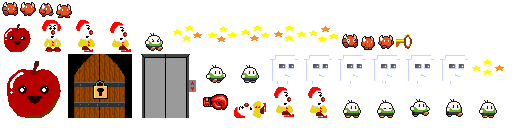
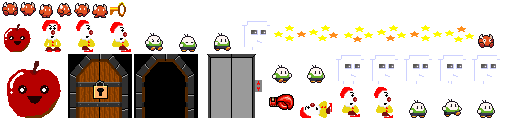
Door can be opened

diff --git a/core/src/com/sa/game/entities/Door.java b/core/src/com/sa/game/entities/Door.java
@@ -1,6 +1,7 @@
 package com.sa.game.entities;
 
 import com.badlogic.ashley.core.Entity;
+import com.badlogic.gdx.ai.fsm.DefaultStateMachine;
 import com.badlogic.gdx.graphics.g2d.Animation;
 import com.badlogic.gdx.graphics.g2d.TextureRegion;
 import com.badlogic.gdx.math.Rectangle;
@@ -8,14 +9,18 @@ import com.badlogic.gdx.math.Vector2;
 import com.sa.game.collision.CollisionDetection;
 import com.sa.game.collision.CollisionEntity;
 import com.sa.game.collision.CollisionFilter;
+import com.sa.game.components.AIComponent;
+import com.sa.game.components.AnimationComponent;
 import com.sa.game.components.CollisionComponent;
+import com.sa.game.components.ControlComponent;
 import com.sa.game.components.PositionComponent;
 import com.sa.game.components.RenderComponent;
 import com.sa.game.components.RenderDebugInfoComponent;
 import com.sa.game.gfx.Sprite;
+import com.sa.game.statemachines.*;
 
 public class Door {
-    public static Entity create(Vector2 position, float size, final Animation<TextureRegion> idleAnimation, CollisionDetection collisionDetection) {
+    public static Entity create(Vector2 position, float size, final Animation<TextureRegion> doorClosedAnimation, final Animation<TextureRegion> doorOpenAnimation, CollisionDetection collisionDetection) {
         Entity entity = new Entity();
         entity.flags = EntityType.Door.type;
 
@@ -29,21 +34,33 @@ public class Door {
         collisionEntity.filter.category = CollisionFilter.OBJECT;
         collisionDetection.add(collisionEntity);
 
+        ControlComponent controlComponent = new ControlComponent();
+
         PositionComponent positionComponent = new PositionComponent();
         positionComponent.position.set(position);
 
         CollisionComponent collisionComponent = new CollisionComponent();
         collisionComponent.entity = collisionEntity;
 
+        AnimationComponent<DoorState> animationComponent = new AnimationComponent<>();
+        animationComponent.animations.put(DoorState.CLOSED, doorClosedAnimation);
+        animationComponent.animations.put(DoorState.OPEN, doorOpenAnimation);
+
+        DefaultStateMachine<Entity, DoorState> stateMachine = new DefaultStateMachine<>(entity, DoorState.CLOSED);
+        AIComponent<DoorState> aiComponent = new AIComponent<>(entity, stateMachine);
+
         RenderComponent renderComponent = new RenderComponent();
         renderComponent.sprite = new Sprite();
         renderComponent.sprite.size.set(collisionEntity.box.width, collisionEntity.box.height);
-        renderComponent.sprite.textureRegion = idleAnimation.getKeyFrame(0);
+        renderComponent.sprite.textureRegion = doorClosedAnimation.getKeyFrame(0);
 
         RenderDebugInfoComponent renderDebugInfoComponent = new RenderDebugInfoComponent();
 
+        entity.add(controlComponent);
         entity.add(positionComponent);
         entity.add(collisionComponent);
+        entity.add(animationComponent);
+        entity.add(aiComponent);
         entity.add(renderComponent);
         entity.add(renderDebugInfoComponent);
 

diff --git a/core/src/com/sa/game/statemachines/DoorState.java b/core/src/com/sa/game/statemachines/DoorState.java
@@ -1,0 +1,48 @@
+package com.sa.game.statemachines;
+import com.badlogic.ashley.core.Entity;
+import com.badlogic.gdx.ai.fsm.State;
+import com.badlogic.gdx.ai.msg.Telegram;
+import com.sa.game.collision.CollisionEntity;
+import com.sa.game.components.CollisionComponent;
+import com.sa.game.components.ComponentMappers;
+
+public enum DoorState implements State<Entity> {
+    OPEN()  {
+        @Override
+        public void update(final Entity data) {
+        }
+    },
+    CLOSED() {
+        @Override
+        public void update(final Entity data) {
+            final CollisionComponent collisionComponent = ComponentMappers.collision.get(data);
+            for(final CollisionEntity collisionEntity : collisionComponent.entity.collidees) {
+                final Entity colEnt = (Entity)collisionEntity.userData;
+                if (ComponentMappers.player1.get(colEnt) != null && ComponentMappers.pickUp.get(colEnt) != null) {
+                    final Entity pickUpEnt = ComponentMappers.pickUp.get(colEnt).entity;
+                    if(pickUpEnt != null)
+                        ComponentMappers.ai.get(data).stateMachine.changeState(OPEN);
+                }
+            }
+        }
+    };
+
+    DoorState() {}
+
+    @Override
+    public void update(final Entity data) {
+    }
+
+    @Override
+    public void enter(final Entity data) {
+    }
+
+    @Override
+    public void exit(final Entity data) {
+    }
+
+    @Override
+    public boolean onMessage(final Entity data, final Telegram telegram) {
+        return false;
+    }
+}

diff --git a/core/src/com/sa/game/systems/AnimationSystem.java b/core/src/com/sa/game/systems/AnimationSystem.java
@@ -17,8 +17,8 @@ public class AnimationSystem<T> extends IteratingSystem {
         super(Family.all(
                          AIComponent.class,
                          AnimationComponent.class,
-                         RenderComponent.class,
-                         PhysicsComponent.class).get());
+                         RenderComponent.class//,
+                         /*PhysicsComponent.class*/).get());
     }
 
     @Override
@@ -29,11 +29,13 @@ public class AnimationSystem<T> extends IteratingSystem {
         final PhysicsComponent physics = ComponentMappers.physics.get(entity);
 
         render.sprite.textureRegion.setRegion(animation.animations.get(ai.stateMachine.getCurrentState()).getKeyFrame(animation.currentTime));
-        if(physics.velocity.x < 0.0f) {
-            render.sprite.mirrorX = true;
-        }
-        else if(physics.velocity.x > 0) {
-            render.sprite.mirrorX = false;
+
+        if (physics != null) {
+            if (physics.velocity.x < 0.0f) {
+                render.sprite.mirrorX = true;
+            } else if (physics.velocity.x > 0) {
+                render.sprite.mirrorX = false;
+            }
         }
         animation.currentTime += deltaTime;
     }

diff --git a/core/src/com/sa/game/entities/Key.java b/core/src/com/sa/game/entities/Key.java
@@ -16,6 +16,7 @@ import com.sa.game.components.PositionComponent;
 import com.sa.game.components.RenderComponent;
 import com.sa.game.components.RenderDebugInfoComponent;
 import com.sa.game.components.WorldConstantsComponent;
+import com.sa.game.components.groups.KeyGroupComponent;
 import com.sa.game.components.groups.ToolGroupComponent;
 import com.sa.game.gfx.Sprite;
 
@@ -25,6 +26,7 @@ public class Key {
         entity.flags = EntityType.Key.type;
 
         ToolGroupComponent toolGroupComponent = new ToolGroupComponent();
+        KeyGroupComponent keyGroupComponent = new KeyGroupComponent();
 
         WorldConstantsComponent worldConstantsComponent = new WorldConstantsComponent();
         worldConstantsComponent.height = staticEnvironment.getWorldBoundY();
@@ -60,6 +62,7 @@ public class Key {
 
         RenderDebugInfoComponent renderDebugInfoComponent = new RenderDebugInfoComponent();
 
+        entity.add(keyGroupComponent);
         entity.add(toolGroupComponent);
         entity.add(worldConstantsComponent);
         entity.add(positionComponent);

diff --git a/core/src/com/sa/game/components/ComponentMappers.java b/core/src/com/sa/game/components/ComponentMappers.java
@@ -2,6 +2,7 @@ package com.sa.game.components;
 
 import com.badlogic.ashley.core.ComponentMapper;
 import com.sa.game.components.groups.EnemyGroupComponent;
+import com.sa.game.components.groups.KeyGroupComponent;
 import com.sa.game.components.groups.CoinGroupComponent;
 
 public class ComponentMappers {
@@ -26,4 +27,5 @@ public class ComponentMappers {
     public static ComponentMapper<ExplodeOnContactComponent> explodeOnContact = ComponentMapper.getFor(ExplodeOnContactComponent.class);
     public static ComponentMapper<CoinGroupComponent> coinGroup = ComponentMapper.getFor(CoinGroupComponent.class);
     public static ComponentMapper<EnemyGroupComponent> enemyGroup = ComponentMapper.getFor(EnemyGroupComponent.class);
+    public static ComponentMapper<KeyGroupComponent> keyGroup = ComponentMapper.getFor(KeyGroupComponent.class);
 }

diff --git a/core/src/com/sa/game/entities/CreateEnteties.java b/core/src/com/sa/game/entities/CreateEnteties.java
@@ -88,7 +88,8 @@ public class CreateEnteties {
         return Door.create(
                             center,
                             height,
-                            new Animation<TextureRegion>(1 / 60f * 6f, atlas.findRegions("door"), Animation.PlayMode.NORMAL),
+                            new Animation<TextureRegion>(1 / 60f * 6f, atlas.findRegions("door_closed"), Animation.PlayMode.NORMAL),
+                            new Animation<TextureRegion>(1 / 60f * 6f, atlas.findRegions("door_open"), Animation.PlayMode.NORMAL),
                             collisionDetection);
     }
 

diff --git a/core/src/com/sa/game/entities/Enemy.java b/core/src/com/sa/game/entities/Enemy.java
@@ -61,6 +61,7 @@ public class Enemy {
         PhysicsComponent physicsComponent = new PhysicsComponent();
         physicsComponent.gravity = -2 * (staticEnvironment.tileSizeInPixels * 5f + 2) / (float) Math.pow(jumpTime, 2f);
 
+
         CollisionComponent collisionComponent = new CollisionComponent();
         collisionComponent.entity = collisionEntity;
 

diff --git a/core/src/com/sa/game/components/groups/KeyGroupComponent.java b/core/src/com/sa/game/components/groups/KeyGroupComponent.java
@@ -1,0 +1,7 @@
+package com.sa.game.components.groups;
+
+import com.badlogic.ashley.core.Component;
+
+public class KeyGroupComponent implements Component{
+    
+}
